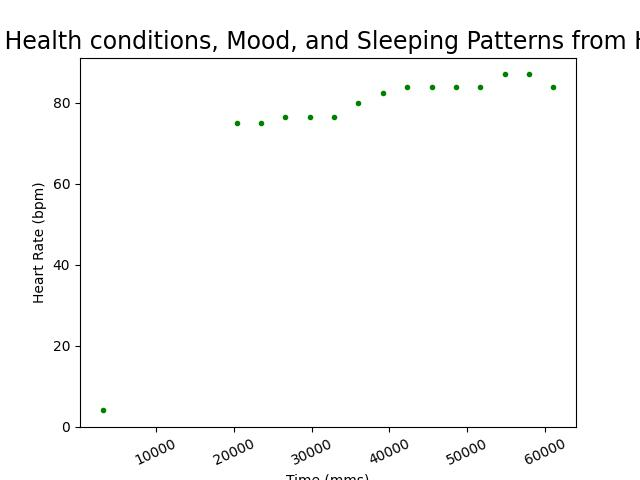
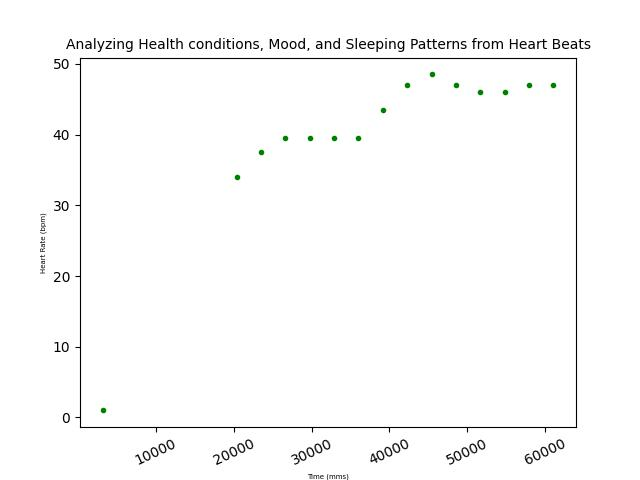
refining bpm calc

diff --git a/heart_beat.cpp b/heart_beat.cpp
@@ -19,7 +19,9 @@ along with this program.  If not, see <http://www.gnu.org/licenses/>.
 #include <Wire.h>
 #include "MAX30100_PulseOximeter.h"
 
-#define REPORTING_PERIOD_MS     1000
+#define REPORTING_PERIOD_MS     100
+#define SAMPLING_WINDOW   30
+#define AWAKE_HEART_RATE 40
 
 // PulseOximeter is the higher level interface to the sensor
 // it offers:
@@ -36,7 +38,7 @@ int buzzer = 12;
 // Callback (registered below) fired when a pulse is detected
 void onBeatDetected()
 {
-    Serial.println("Beat!");
+    //Serial.println("Beat!");
 }
 
 void setup()
@@ -44,16 +46,16 @@ void setup()
     pinMode(buzzer, OUTPUT);
     Serial.begin(9600);
 
-    Serial.print("Initializing pulse oximeter..");
+   // Serial.print("Initializing pulse oximeter..");
 
     // Initialize the PulseOximeter instance
     // Failures are generally due to an improper I2C wiring, missing power supply
     // or wrong target chip
     if (!pox.begin()) {
-        Serial.println("FAILED");
+        //Serial.println("FAILED");
         for(;;);
     } else {
-        Serial.println("SUCCESS");
+        //Serial.println("SUCCESS");
     }
 
     // The default current for the IR LED is 50mA and it could be changed
@@ -74,25 +76,29 @@ void loop()
     // For both, a value of 0 means "invalid"
     
     if (millis() - tsLastReport > REPORTING_PERIOD_MS) {
-        Serial.print("Heart rate:");
-        Serial.print(pox.getHeartRate());
-        Serial.println();
+        //Serial.print("Heart rate:");
+        //Serial.print(pox.getHeartRate());
+        //Serial.println();
         tsLastReport = millis();
         
-        if(count!=30){
-          heart_rate_sum += pox.getHeartRate();
+        if(count!=SAMPLING_WINDOW){
+          heart_rate_sum += (pox.getHeartRate()); // dividing by 2 for error
           count++;
         }
-        else if(count==30){
-          Serial.print("Heart rate:");
-          Serial.print(heart_rate_sum/30);
-          if (heart_rate_sum<55){
+        else if(count==SAMPLING_WINDOW){
+          //Serial.print("Heart rate:");
+          // csv format
+          Serial.print(millis());
+          Serial.print(",");
+          Serial.print(heart_rate_sum/(2*SAMPLING_WINDOW));
+          Serial.println();
+          if (heart_rate_sum < AWAKE_HEART_RATE){
             //turn on buzzer 
             digitalWrite(buzzer, HIGH);
-            delay(5000);
+            delay(5000); // sec
             //turn off the buzzer
             digitalWrite(buzzer, LOW);
-            delay(10000);
+            delay(10000); //sec
           }
           heart_rate_sum = 0;
           count = 0;

diff --git a/graph.py b/graph.py
@@ -11,15 +11,16 @@ bpm = []
 
 with open('filtered_bpm.csv','r') as csvfile:
 	lines = csv.reader(csvfile, delimiter=',')
+	count = 0
 	for row in lines:
 		time.append(float(row[1]))
 		bpm.append(float(row[2]))
 
 plt.scatter(time, bpm, color = 'g', marker=".")
 plt.xticks(rotation = 25)
-plt.xlabel('Time (mms)')
-plt.ylabel('Heart Rate (bpm)')
-plt.title('Analyzing Health conditions, Mood, and Sleeping Patterns from Heart Beats', fontsize = 17)
+plt.xlabel('Time (mms)', fontsize = 5)
+plt.ylabel('Heart Rate (bpm)', fontsize = 5)
+plt.title('Analyzing Health conditions, Mood, and Sleeping Patterns from Heart Beats', fontsize = 10)
 #plt.show()
 plt.savefig("graph.jpg")
 plt.savefig("ecaff/src/graph1.jpg")

diff --git a/tempCodeRunnerFile.py b/tempCodeRunnerFile.py
@@ -1,13 +1,2 @@
-cred = credentials.Certificate("./google.json")
-initialize_app(cred, {'storageBucket': 'gs://ecaff-367805.appspot.com/.'})
-
-# Put your local file path 
-fileName = "./graph.jpg"
-bucket = storage.bucket()
-blob = bucket.blob(fileName)
-blob.upload_from_filename(fileName)
-
-# Opt : if you want to make public access from the URL
-blob.make_public()
-
-print("your file url", blob.public_url)
+time.append(float(row[1]))
+		bpm.append(float(row[2]))
